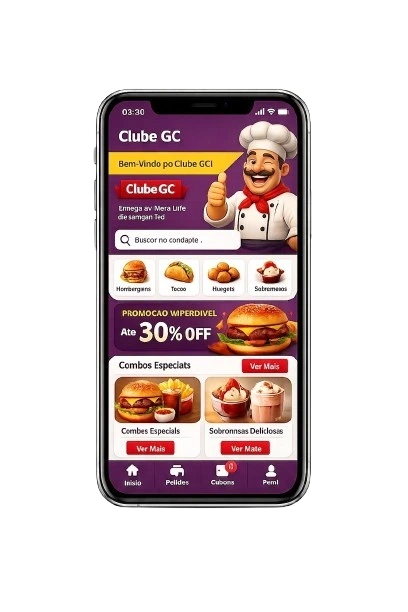
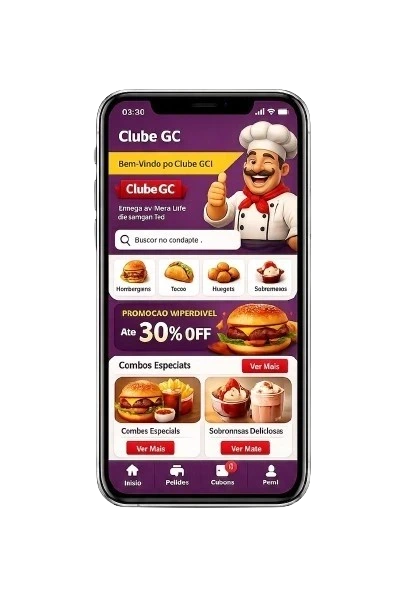
updated

Changed region(s): [[0.7353, 0.3105, 0.7647, 0.4036], [0.7353, 0.7761, 0.7647, 0.8072]]

diff --git a/index.html b/index.html
@@ -71,7 +71,7 @@
         </section>
         <section class="Bloco-Aplicativo">
             <div class="Bloco-Celular">
-                <img class="celular" src="imagens/smartPhone.webp" alt="smartPhone">      
+                <img class="celular" src="imagens/smartPhone.png" alt="smartPhone">      
             </div>
             <div class="Bloco-Mensagem">
                 <p>Não deixe para comer amanhã o que você pode comer hoje,baixe nosso App!</p>